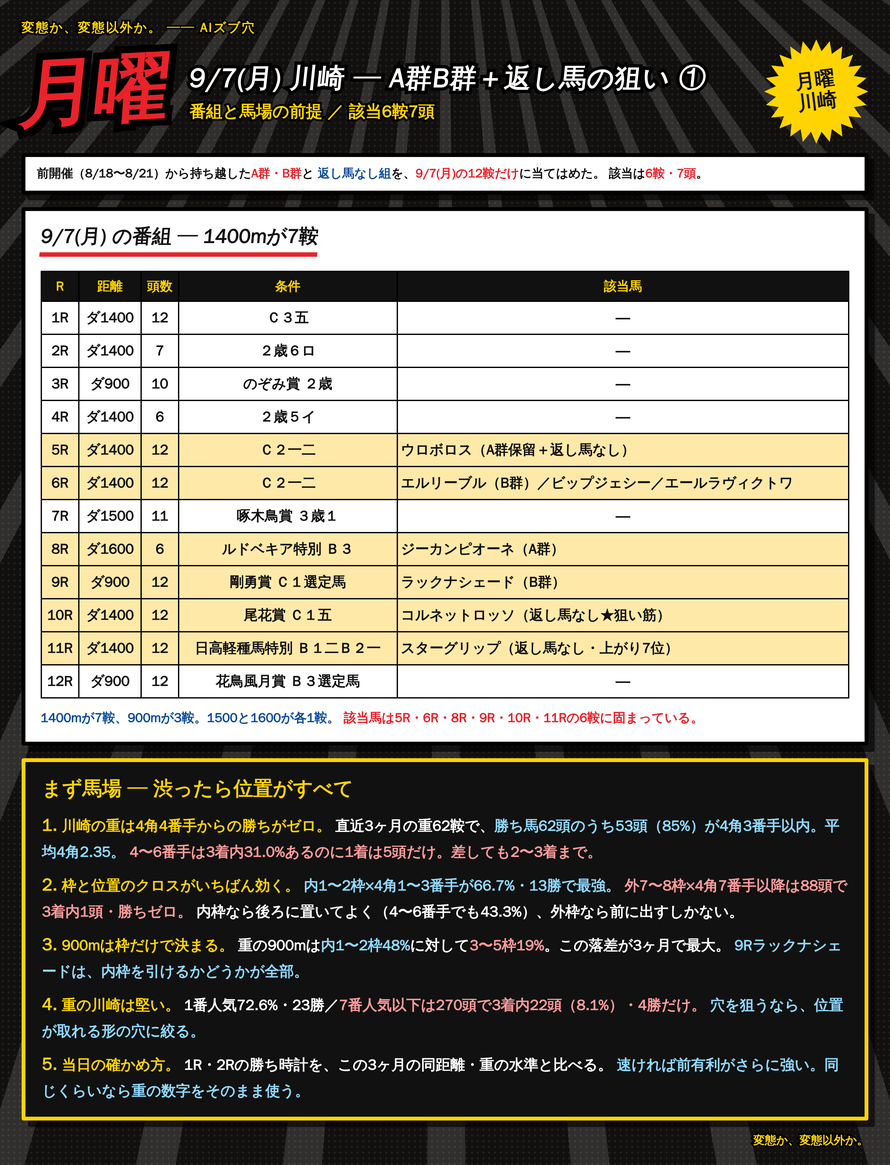
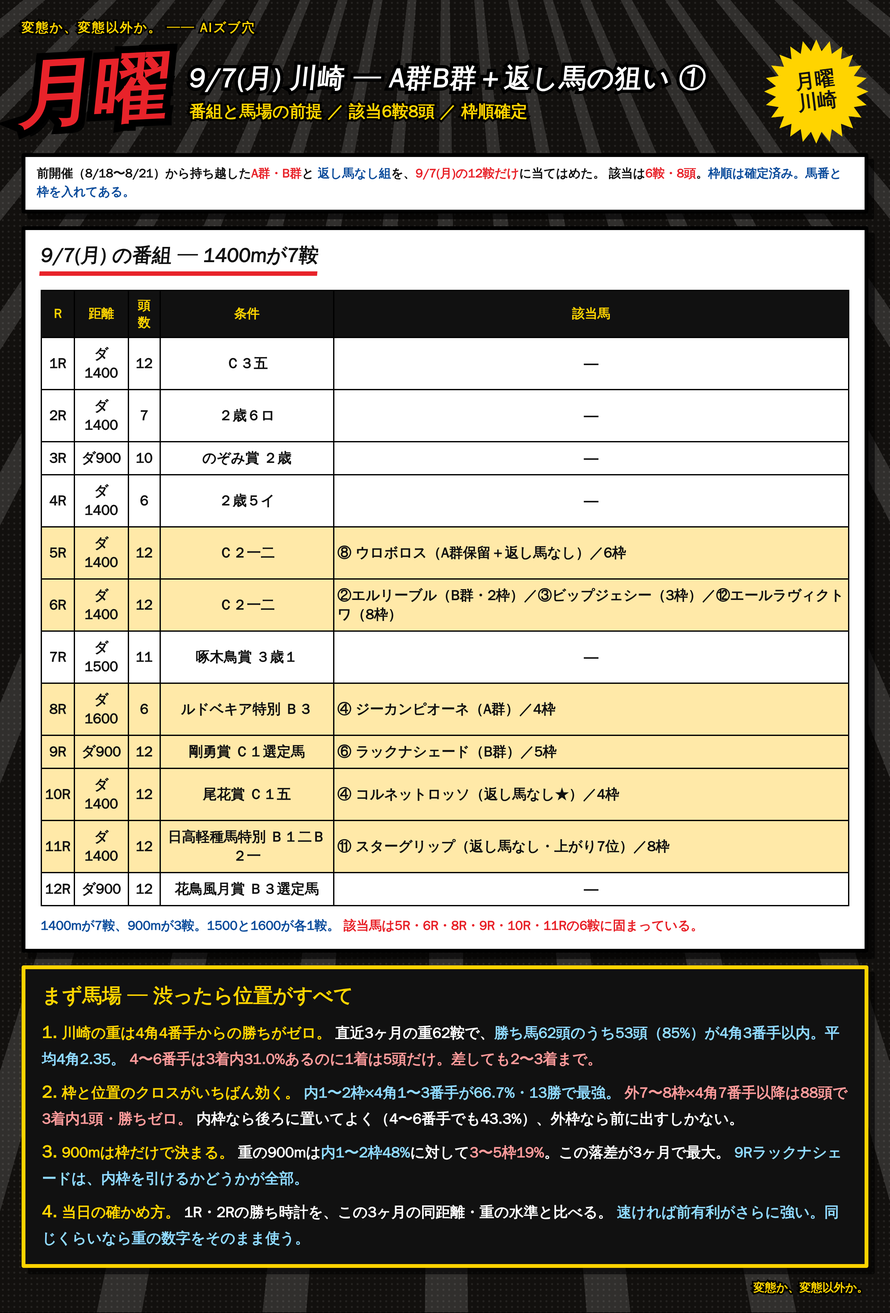
川崎 9/7: 馬番・枠を追加、「重の川崎は堅い」の項を削除
枠順が確定していたため取り直し、該当8頭に馬番と枠を入れた。
枠を入れたことで評価が動いた点を反映：

- 6R ②エルリーブル（2枠）… 重の最強形「内1〜2枠×4角1〜3番手」66.7%・13勝に
  ハナを切る脚質が噛み合う。この日唯一の本線に格上げ
- 9R ⑥ラックナシェード（5枠）… 重の900mは内1〜2枠48%／3〜5枠19%／外6〜8枠29%で
  いちばん悪い帯。位置がすべての馬なので見送り寄りに変更
- 5R ⑧ウロボロス（6枠・6.2%）／6R ⑫エールラヴィクトワ（8枠・22.2%）／
  10R ④コルネットロッソ（4枠・1着ゼロ）は枠が向かず、3着づけまで

馬場の前提から「重の川崎は堅い（人気の項）」を削除し、残りを4項に繰り上げ。

Claude-Session: https://claude.ai/code/session_01RoHscZkr96FNaxQWvUqgEw

diff --git a/notes/live/2026-09-kawasaki/kw_mon_3.html b/notes/live/2026-09-kawasaki/kw_mon_3.html
@@ -99,10 +99,10 @@
 </style></head>
 <body><div class="card"><div class="lines"></div><div class="tone"></div><div class="inner">
 <div class="kicker">変態か、変態以外か。 ── AIズブ穴</div>
-<div class="head"><div class="gekiga">月曜</div><div class="dateblk"><div class="d1">9/7(月) 川崎 ─ A群B群＋返し馬の狙い ③</div><div class="d2">8R・9R・10R・11R ／ 組み方</div></div><div class="burst"><span>8R<br>以降</span></div></div>
+<div class="head"><div class="gekiga">月曜</div><div class="dateblk"><div class="d1">9/7(月) 川崎 ─ A群B群＋返し馬の狙い ③</div><div class="d2">8R ④ ／ 9R ⑥ ／ 10R ④ ／ 11R ⑪ ／ 組み方</div></div><div class="burst"><span>8R<br>以降</span></div></div>
 
 <div class="sec">
- <div class="sh">8R ダ1600 <b>6頭</b> ルドベキア特別 Ｂ３ ─ ジーカンピオーネ（A群）</div>
+ <div class="sh">8R ダ1600 <b>6頭</b> ルドベキア特別 Ｂ３ ─ <span style="color:#e8232a">④</span>ジーカンピオーネ（4枠／A群）</div>
  <table>
   <tr><th>日付</th><th>条件</th><th>着</th><th>上がり</th><th>通過順</th><th>人気</th><th>体重</th></tr>
   <tr class="win"><td>8/20</td><td>川崎1500 良</td><td><b>1着</b><br>単1,870</td><td><b>40.6（1位）</b></td><td>4番手</td><td><b>6人気</b></td><td>410</td></tr>
@@ -115,11 +115,11 @@
  <b class="r">ただし410kg。前開催48鞍で439kg以下は3着内20.6%と、他の体重帯より明確に低い。</b>
  さらに<b>1500→1600の距離延長と、Ｂ３へのクラス上げが同時に来る。</b>
  <b class="r">3/4の不良で7着というのも引っかかる。渋ったら評価を下げる。</b><br>
- <b>救いは6頭立て。頭数が少ないぶん位置は取りやすい。</b></div>
+ <b>救いは6頭立て。頭数が少ないぶん位置は取りやすく、枠の有利不利もほぼ消える。</b></div>
 </div>
 
 <div class="sec">
- <div class="sh">9R ダ900 12頭 剛勇賞 Ｃ１選定馬 ─ ラックナシェード（B群）</div>
+ <div class="sh">9R ダ900 12頭 剛勇賞 Ｃ１選定馬 ─ <span style="color:#e8232a">⑥</span>ラックナシェード（<b style="color:#e8232a">5枠</b>／B群）</div>
  <table>
   <tr><th>日付</th><th>条件</th><th>着</th><th>上がり</th><th>通過順</th><th>人気</th></tr>
   <tr class="win"><td>8/18</td><td>川崎900 稍</td><td><b>1着</b><br><b class="r">単5,550</b></td><td>37.3（2位）</td><td><b>3番手</b></td><td><b>8人気</b></td></tr>
@@ -130,13 +130,16 @@
  </table>
  <div class="note"><b>全部900m。そして8/18を除くと、全部4角5番手以降。</b>
  <b class="r">8/18だけ4角3番手を取れた。それで5,550円。</b>
- <b>上がりは37.0〜38.3で常に組の上位を使っているのに、位置が取れないから届かない。</b><br>
- <b class="r">この馬は位置がすべて。そして重の900mは内1〜2枠48%／3〜5枠19%。</b>
- <b>内枠を引いたら拾う。外なら見送る。鞍上は古岡勇が継続。</b></div>
+ <b>上がりは37.0〜38.3で常に組の上位を使っているのに、位置が取れないから届かない。</b><br><br>
+ <b class="r">枠が出た。⑥＝5枠。ここがいちばん悪い。</b>
+ 重の900mは<b>内1〜2枠が48%</b>なのに対して、<b class="r">3〜5枠は19%。3ヶ月で最大の落差の、悪いほう。</b>
+ （外6〜8枠は29%で、5枠より上）<br>
+ <b class="r">この枠でこの脚質なら、前走の再現は期待しにくい。見送り寄り。</b>
+ <b>鞍上は古岡勇が継続。</b></div>
 </div>
 
 <div class="sec">
- <div class="sh">10R ダ1400 12頭 尾花賞 Ｃ１五 ─ コルネットロッソ（★狙い筋）</div>
+ <div class="sh">10R ダ1400 12頭 尾花賞 Ｃ１五 ─ <span style="color:#e8232a">④</span>コルネットロッソ（4枠／★狙い筋）</div>
  <div class="note">
  <b>8/18 5R 稍1400で2番人気4着。4角9番手から上がり39.6＝11頭中2位。</b>
  <b class="r">「馬券を外して上がり1〜2位」という狙い筋に該当する、この日ただ1頭。</b><br><br>
@@ -144,29 +147,35 @@
  <b class="r">位置も定まらず、4角1番手の日も11番手の日もある。</b>
  位置を取れた2走（4角1番手→2着、4角2番手→3着）は堅実だった。<br><br>
  <b class="r">◎ではなく2〜3着づけ。今回も人気なら妙味は薄い。</b>
- <b>鞍上は新原周が継続。前走と同じ「後ろから終い」の形が出るかを見る。</b></div>
+ <b>鞍上は新原周が継続。前走と同じ「後ろから終い」の形が出るかを見る。</b><br><br>
+ <b class="r">枠は④＝4枠。ここが微妙。</b>重の「3〜4枠 × 4角4〜6番手」は
+ <b>3着内31.4%あるのに1着はゼロ</b>、<b class="r">4角7番手以降まで下げると54頭で3着内2頭（3.7%）。</b>
+ <b>前走のように4角9番手まで下がったら、この枠では何もできない。
+ 5番手までで我慢できるかどうかが分かれ目。</b></div>
 </div>
 
 <div class="sec">
- <div class="sh">11R ダ1400 12頭 日高軽種馬特別 ─ スターグリップ</div>
+ <div class="sh">11R ダ1400 12頭 日高軽種馬特別 ─ <span style="color:#e8232a">⑪</span>スターグリップ（8枠）</div>
  <div class="note">
  <b>8/20 11Rで返し馬をしていないが、上がりは12頭中7位。狙い筋には乗らない。</b><br>
  近6走が<b>3着・3着・4着・3着・4着・6着。常に1〜2番人気で、勝ち星がない。</b>
  位置は取れるのに詰めが甘いタイプ。<b class="r">人気になるので妙味がない。ヒモ止まり。</b>
- <b>本田重 → 笹川翼への乗り替わり。</b></div>
+ <b>本田重 → 笹川翼への乗り替わり。⑪＝8枠で、位置を取りにいくしかない。</b></div>
 </div>
 
 <div class="big">
- <div class="bh">9/7(月) の組み方</div>
- <div class="it"><span class="no">1.</span> <span class="y">勝負は2鞍まで。6Rと9R。</span>
- <span class="c">6Rはエルリーブルが同じ条件・同じ鞍上で戻ってくる鞍で、3頭が同居する。
- 9Rはラックナシェードが内枠を引けば、前走と同じ位置が取れる。</span></div>
- <div class="it"><span class="no">2.</span> <span class="y">◎に置ける馬がいない。</span>
- <span class="r">ウロボロス・エールラヴィクトワ・コルネットロッソはいずれも後ろから終いを使う型。</span>
- <span class="c">川崎の重は4角4番手からの勝ちがゼロなので、この3頭は2〜3着づけで固定する。</span></div>
- <div class="it"><span class="no">3.</span> <span class="y">枠が出るまで決めない。</span>
- <span class="c">9Rラックナシェード（900m・内1〜2枠48%／3〜5枠19%）と
- 8Rジーカンピオーネ（410kg・6頭立て）は、枠と馬場で評価が真逆に振れる。</span></div>
+ <div class="bh">9/7(月) の組み方 ─ 枠を見たあと</div>
+ <div class="it"><span class="no">1.</span> <span class="y">本線は6R ②エルリーブル。ここだけ枠と脚質が噛み合っている。</span>
+ <span class="c">重の川崎でいちばん強い形が「内1〜2枠 × 4角1〜3番手」で66.7%・13勝。</span>
+ <span class="c">この馬は2枠を引いて、しかもハナを切る馬。8/19の7,840円もその形で出した。</span></div>
+ <div class="it"><span class="no">2.</span> <span class="y">9R ⑥ラックナシェードは枠で消える。</span>
+ <span class="r">5枠。重の900mは内1〜2枠48%に対して3〜5枠19%で、いちばん悪い帯に入った。</span>
+ <span class="c">位置がすべての馬なので、前走の再現は期待しにくい。見送り寄りに変える。</span></div>
+ <div class="it"><span class="no">3.</span> <span class="y">後ろから終いを使う3頭は、全部枠が向いていない。</span>
+ <span class="c">5R ⑧ウロボロス（6枠・5〜6枠×7番手以降は6.2%）、
+ 6R ⑫エールラヴィクトワ（8枠・外7〜8枠×4〜6番手は22.2%）、
+ 10R ④コルネットロッソ（4枠・3〜4枠×4〜6番手は1着ゼロ）。</span>
+ <span class="r">3頭ともヒモの3着づけまで。◎には置かない。</span></div>
  <div class="it"><span class="no">4.</span> <span class="y">当日の観察を続ける。</span>
  <span class="c">返し馬をしなかった馬を控えて、その日の4角と上がり順位を確認する。</span>
  <span class="r">上がり1〜2位で馬券を外した馬を、次走の候補に積む。</span>

diff --git a/notes/live/2026-09-kawasaki/kw_mon_2.html b/notes/live/2026-09-kawasaki/kw_mon_2.html
@@ -99,10 +99,10 @@
 </style></head>
 <body><div class="card"><div class="lines"></div><div class="tone"></div><div class="inner">
 <div class="kicker">変態か、変態以外か。 ── AIズブ穴</div>
-<div class="head"><div class="gekiga">月曜</div><div class="dateblk"><div class="d1">9/7(月) 川崎 ─ A群B群＋返し馬の狙い ②</div><div class="d2">5R ウロボロス ／ 6R 3頭同居</div></div><div class="burst"><span>5R<br>6R</span></div></div>
+<div class="head"><div class="gekiga">月曜</div><div class="dateblk"><div class="d1">9/7(月) 川崎 ─ A群B群＋返し馬の狙い ②</div><div class="d2">5R ⑧ウロボロス ／ 6R ②③⑫の3頭同居</div></div><div class="burst"><span>5R<br>6R</span></div></div>
 
 <div class="sec">
- <div class="sh">5R ダ1400 12頭 Ｃ２一二 ─ ウロボロス（A群保留＋返し馬なし）</div>
+ <div class="sh">5R ダ1400 12頭 Ｃ２一二 ─ <span style="color:#e8232a">⑧</span>ウロボロス（<b>6枠</b>／A群保留＋返し馬なし）</div>
  <table>
   <tr><th>日付</th><th>条件</th><th>着</th><th>上がり</th><th>通過順</th><th>人気</th></tr>
   <tr class="win"><td>8/18</td><td>川崎1400 稍</td><td><b>2着</b></td><td><b>39.5（1位）</b></td><td><b>7番手</b></td><td><b>9人気</b></td></tr>
@@ -112,27 +112,32 @@
   <tr><td>5/11</td><td>川崎1400 良</td><td>6着</td><td>39.4</td><td>10-10-10-9</td><td>10人気</td></tr>
  </table>
  <div class="note"><b>5走すべて4角6番手以降。上がりは39.4〜40.3で組の上位を使い続けている。</b>
- 人気は6・2・10・8番人気で、<b class="r">ズブ穴の型そのもの。渋った1500mで3着があるので馬場は問わない。</b><br>
- <b class="r">ただし川崎の重は4角4番手からの勝ちがゼロ。この馬は◎にしない。2〜3着づけ。</b>
- <b>鞍上は古岡勇が継続。</b></div>
+ 人気は6・2・10・8番人気で、<b class="r">ズブ穴の型そのもの。渋った1500mで3着があるので馬場は問わない。</b><br><br>
+ <b class="r">問題は枠。⑧は6枠で、重の「5〜6枠 × 4角7番手以降」は80頭で3着内5頭（6.2%）しかない。</b>
+ <b>この馬は必ず後ろから行く。枠と脚質がいちばん噛み合わない組み合わせ。</b><br>
+ <b class="r">評価を下げる。買うならヒモの3着づけまで。</b><b>鞍上は古岡勇が継続。</b></div>
 </div>
 
 <div class="sec">
- <div class="sh">6R ダ1400 12頭 Ｃ２一二 ─ 3頭が同居。ここが絞りどころ</div>
+ <div class="sh">6R ダ1400 12頭 Ｃ２一二 ─ 3頭が同居。<span style="color:#e8232a">枠で答えが出た</span></div>
  <table>
-  <tr><th>馬</th><th>鞍上</th><th>前開催</th><th>中身</th><th>扱い</th></tr>
-  <tr class="hi"><td class="l"><b>エルリーブル</b><br>セ5・474kg</td><td>藤江渉<br><b>継続</b></td><td class="l">8/19 <b>6R 良1400</b><br><b class="r">9人気1着 単7,840</b></td><td class="l"><b>4角1番手</b>・上40.3（5位）<br>近5走はすべて<b>900m</b></td><td><b>ハナ</b><br>次第</td></tr>
-  <tr><td class="l"><b>ビップジェシー</b><br>牝4・439kg</td><td>町田直<br><b>継続</b></td><td class="l">8/18 7R 稍1400<br><b>1人気1着</b> 単300</td><td class="l">4角3番手・<b>上39.1（1位）</b><br>川崎1400で上がり39.1〜39.6</td><td>△</td></tr>
-  <tr><td class="l"><b>エールラヴィクトワ</b><br>牝4・442kg</td><td class="l"><b class="r">矢野貴→<br>古岡勇</b></td><td class="l">8/18 9R 稍1500<br>1人気3着</td><td class="l">4角3番手・<b>上39.6（2位）</b><br>近6走 2・3・4・4・2・3着で<b class="r">勝ち星ゼロ</b></td><td><b>2〜3着</b><br>づけ</td></tr>
+  <tr><th>馬番<br>枠</th><th>馬</th><th>鞍上</th><th>前開催</th><th>中身</th><th>扱い</th></tr>
+  <tr class="win"><td><b class="r" style="font-size:30px">②</b><br><b>2枠</b></td><td class="l"><b>エルリーブル</b><br>セ5・474kg</td><td>藤江渉<br><b>継続</b></td><td class="l">8/19 <b>6R 良1400</b><br><b class="r">9人気1着 単7,840</b></td><td class="l"><b>4角1番手</b>・上40.3（5位）<br>近5走はすべて<b>900m</b></td><td><b class="r">本線</b></td></tr>
+  <tr><td><b class="r" style="font-size:30px">③</b><br>3枠</td><td class="l"><b>ビップジェシー</b><br>牝4・439kg</td><td>町田直<br><b>継続</b></td><td class="l">8/18 7R 稍1400<br><b>1人気1着</b> 単300</td><td class="l">4角3番手・<b>上39.1（1位）</b><br>川崎1400で上がり39.1〜39.6</td><td>△</td></tr>
+  <tr class="bad"><td><b class="r" style="font-size:30px">⑫</b><br><b>8枠</b></td><td class="l"><b>エールラヴィクトワ</b><br>牝4・442kg</td><td class="l"><b class="r">矢野貴→<br>古岡勇</b></td><td class="l">8/18 9R 稍1500<br>1人気3着</td><td class="l">4角3番手・<b>上39.6（2位）</b><br>近6走 2・3・4・4・2・3着で<b class="r">勝ち星ゼロ</b></td><td><b class="r">枠が<br>致命的</b></td></tr>
  </table>
  <div class="note">
- <b class="r">エルリーブルは同じ6R・同じ1400m・同じ鞍上での再戦。</b>
- 近5走はすべて900mで、8/19の1400が久々の距離延長。そこで<b>ハナを切って7,840円。</b>
- <b>終いは40.3で5位でしかない。位置だけで残った馬なので、同じ位置が取れなければ何も残らない。</b>
- <b class="r">前走の激走で人気を上げているなら妙味は消える。</b><br><br>
- <b>エールラヴィクトワは4/7に川崎1400の重で2着（4角5番手・上39.7）。渋れば動く。</b>
- ただし<b class="r">近6走で勝ち星がなく、2着・3着で止まる馬。ヒモから。</b>
- <b>矢野貴 → 古岡勇の乗り替わりも押さえておく。</b></div>
+ <b class="r">②エルリーブルは同じ6R・同じ1400m・同じ鞍上での再戦。そのうえ2枠。</b>
+ 重の川崎でいちばん強い形は<b class="r">「内1〜2枠 × 4角1〜3番手」で66.7%・13勝。</b>
+ この馬は<b>ハナを切る馬で、8/19もそれで7,840円を出した。枠と脚質が完全に噛み合う。</b><br>
+ <b>終いは40.3で5位でしかない。位置だけで残った馬なので、ハナを取れるかどうかがすべて。</b>
+ <b class="r">それでも今日は、取りにいける枠を引いた。</b><br><br>
+ <b>③ビップジェシーは3枠で4角3番手の馬。「3〜4枠 × 4角1〜3番手」も68.2%と高い。</b>
+ <b class="r">ただし前走1番人気1着で、今回も人気を背負う。</b><br><br>
+ <b class="r">⑫エールラヴィクトワは8枠。ここが致命的。</b>
+ この馬は近6走とも4角4〜6番手で、重の<b>「外7〜8枠 × 4角4〜6番手」は22.2%まで落ちる</b>
+ （内1〜2枠なら43.3%）。<b>もともと近6走で勝ち星がなく2〜3着で止まる馬。今回は評価を下げる。</b>
+ <b>矢野貴 → 古岡勇の乗り替わり。</b></div>
 </div>
 
 <div class="sig">変態か、変態以外か。</div>

diff --git a/notes/live/2026-09-kawasaki/kw_mon_1.html b/notes/live/2026-09-kawasaki/kw_mon_1.html
@@ -99,11 +99,11 @@
 </style></head>
 <body><div class="card"><div class="lines"></div><div class="tone"></div><div class="inner">
 <div class="kicker">変態か、変態以外か。 ── AIズブ穴</div>
-<div class="head"><div class="gekiga">月曜</div><div class="dateblk"><div class="d1">9/7(月) 川崎 ─ A群B群＋返し馬の狙い ①</div><div class="d2">番組と馬場の前提 ／ 該当6鞍7頭</div></div><div class="burst"><span>月曜<br>川崎</span></div></div>
+<div class="head"><div class="gekiga">月曜</div><div class="dateblk"><div class="d1">9/7(月) 川崎 ─ A群B群＋返し馬の狙い ①</div><div class="d2">番組と馬場の前提 ／ 該当6鞍8頭 ／ 枠順確定</div></div><div class="burst"><span>月曜<br>川崎</span></div></div>
 
 <div class="lead">前開催（8/18〜8/21）から持ち越した<span class="r">A群・B群</span>と
 <span class="b">返し馬なし組</span>を、<span class="r">9/7(月)の12鞍だけ</span>に当てはめた。
-該当は<span class="r">6鞍・7頭</span>。</div>
+該当は<span class="r">6鞍・8頭</span>。<span class="b">枠順は確定済み。馬番と枠を入れてある。</span></div>
 
 <div class="sec">
  <div class="sh">9/7(月) の番組 ─ 1400mが7鞍</div>
@@ -113,13 +113,13 @@
   <tr><td>2R</td><td>ダ1400</td><td>7</td><td>２歳６ロ</td><td>―</td></tr>
   <tr><td>3R</td><td>ダ900</td><td>10</td><td>のぞみ賞 ２歳</td><td>―</td></tr>
   <tr><td>4R</td><td>ダ1400</td><td>6</td><td>２歳５イ</td><td>―</td></tr>
-  <tr class="hi"><td><b>5R</b></td><td>ダ1400</td><td>12</td><td>Ｃ２一二</td><td class="l"><b>ウロボロス</b>（A群保留＋返し馬なし）</td></tr>
-  <tr class="hi"><td><b>6R</b></td><td>ダ1400</td><td>12</td><td>Ｃ２一二</td><td class="l"><b>エルリーブル</b>（B群）／<b>ビップジェシー</b>／<b>エールラヴィクトワ</b></td></tr>
+  <tr class="hi"><td><b>5R</b></td><td>ダ1400</td><td>12</td><td>Ｃ２一二</td><td class="l"><b class="r">⑧</b> <b>ウロボロス</b>（A群保留＋返し馬なし）／<b>6枠</b></td></tr>
+  <tr class="hi"><td><b>6R</b></td><td>ダ1400</td><td>12</td><td>Ｃ２一二</td><td class="l"><b class="r">②</b><b>エルリーブル</b>（B群・<b>2枠</b>）／<b class="r">③</b><b>ビップジェシー</b>（3枠）／<b class="r">⑫</b><b>エールラヴィクトワ</b>（8枠）</td></tr>
   <tr><td>7R</td><td>ダ1500</td><td>11</td><td>啄木鳥賞 ３歳１</td><td>―</td></tr>
-  <tr class="hi"><td><b>8R</b></td><td>ダ1600</td><td><b>6</b></td><td>ルドベキア特別 Ｂ３</td><td class="l"><b>ジーカンピオーネ</b>（A群）</td></tr>
-  <tr class="hi"><td><b>9R</b></td><td>ダ900</td><td>12</td><td>剛勇賞 Ｃ１選定馬</td><td class="l"><b>ラックナシェード</b>（B群）</td></tr>
-  <tr class="hi"><td><b>10R</b></td><td>ダ1400</td><td>12</td><td>尾花賞 Ｃ１五</td><td class="l"><b class="r">コルネットロッソ</b>（返し馬なし★狙い筋）</td></tr>
-  <tr class="hi"><td><b>11R</b></td><td>ダ1400</td><td>12</td><td>日高軽種馬特別 Ｂ１二Ｂ２一</td><td class="l">スターグリップ（返し馬なし・上がり7位）</td></tr>
+  <tr class="hi"><td><b>8R</b></td><td>ダ1600</td><td><b>6</b></td><td>ルドベキア特別 Ｂ３</td><td class="l"><b class="r">④</b> <b>ジーカンピオーネ</b>（A群）／4枠</td></tr>
+  <tr class="hi"><td><b>9R</b></td><td>ダ900</td><td>12</td><td>剛勇賞 Ｃ１選定馬</td><td class="l"><b class="r">⑥</b> <b>ラックナシェード</b>（B群）／<b class="r">5枠</b></td></tr>
+  <tr class="hi"><td><b>10R</b></td><td>ダ1400</td><td>12</td><td>尾花賞 Ｃ１五</td><td class="l"><b class="r">④</b> <b class="r">コルネットロッソ</b>（返し馬なし★）／4枠</td></tr>
+  <tr class="hi"><td><b>11R</b></td><td>ダ1400</td><td>12</td><td>日高軽種馬特別 Ｂ１二Ｂ２一</td><td class="l"><b class="r">⑪</b> スターグリップ（返し馬なし・上がり7位）／8枠</td></tr>
   <tr><td>12R</td><td>ダ900</td><td>12</td><td>花鳥風月賞 Ｂ３選定馬</td><td>―</td></tr>
  </table>
  <div class="note"><b>1400mが7鞍、900mが3鞍。1500と1600が各1鞍。</b>
@@ -138,10 +138,7 @@
  <div class="it"><span class="no">3.</span> <span class="y">900mは枠だけで決まる。</span>
  重の900mは<span class="c">内1〜2枠48%</span>に対して<span class="r">3〜5枠19%</span>。この落差が3ヶ月で最大。
  <span class="c">9Rラックナシェードは、内枠を引けるかどうかが全部。</span></div>
- <div class="it"><span class="no">4.</span> <span class="y">重の川崎は堅い。</span>
- 1番人気72.6%・23勝／<span class="r">7番人気以下は270頭で3着内22頭（8.1%）・4勝だけ。</span>
- <span class="c">穴を狙うなら、位置が取れる形の穴に絞る。</span></div>
- <div class="it"><span class="no">5.</span> <span class="y">当日の確かめ方。</span>
+ <div class="it"><span class="no">4.</span> <span class="y">当日の確かめ方。</span>
  1R・2Rの勝ち時計を、この3ヶ月の同距離・重の水準と比べる。
  <span class="c">速ければ前有利がさらに強い。同じくらいなら重の数字をそのまま使う。</span></div>
 </div>

diff --git a/notes/live/2026-09-kawasaki/README.md b/notes/live/2026-09-kawasaki/README.md
@@ -1428,18 +1428,20 @@
 画像: `kw_mon_1.png`（番組と馬場）／`kw_mon_2.png`（5R・6R）／`kw_mon_3.png`（8R以降と組み方）
 生成: `scratchpad/mkmon.py`　照合: `scratchpad/kwmon.py`
 
-**A群・B群・返し馬なし組を9/7の12鞍に当てはめた。該当は6鞍・7頭。**
+**A群・B群・返し馬なし組を9/7の12鞍に当てはめた。該当は6鞍・8頭。枠順確定済み。**
 
-| R | 条件 | 馬 | 鞍上 | 区分 |
-|---|---|---|---|---|
-| **5R** | ダ1400 12頭 Ｃ２一二 | ウロボロス | 古岡勇 継続 | **A群保留＋返し馬なし** |
-| **6R** | ダ1400 12頭 Ｃ２一二 | エルリーブル | 藤江渉 継続 | **B群**（8/19 6R 9人気1着・単7,840） |
-| **6R** | 〃 | ビップジェシー | 町田直 継続 | 返し馬なし（8/18 1人気1着） |
-| **6R** | 〃 | エールラヴィクトワ | **矢野貴→古岡勇** | 返し馬なし（8/18 1人気3着・上2位） |
-| **8R** | ダ1600 **6頭** ルドベキア特別Ｂ３ | ジーカンピオーネ | 西啓太 | **A群**（8/20 6人気1着・単1,870・上1位） |
-| **9R** | ダ900 12頭 剛勇賞Ｃ１ | ラックナシェード | 古岡勇 継続 | **B群**（8/18 8人気1着・**単5,550**） |
-| **10R** | ダ1400 12頭 尾花賞Ｃ１五 | コルネットロッソ | 新原周 継続 | **返し馬なし★（狙い筋）** |
-| 11R | ダ1400 12頭 日高軽種馬特別 | スターグリップ | **本田重→笹川翼** | 返し馬なし（上7位・筋外） |
+| R | 条件 | 馬番/枠 | 馬 | 鞍上 | 区分 |
+|---|---|---|---|---|---|
+| **5R** | ダ1400 12頭 Ｃ２一二 | **⑧ 6枠** | ウロボロス | 古岡勇 継続 | **A群保留＋返し馬なし** |
+| **6R** | ダ1400 12頭 Ｃ２一二 | **② 2枠** | **エルリーブル** | 藤江渉 継続 | **B群**（8/19 6R 9人気1着・単7,840） |
+| **6R** | 〃 | **③ 3枠** | ビップジェシー | 町田直 継続 | 返し馬なし（8/18 1人気1着） |
+| **6R** | 〃 | **⑫ 8枠** | エールラヴィクトワ | **矢野貴→古岡勇** | 返し馬なし（8/18 1人気3着・上2位） |
+| **8R** | ダ1600 **6頭** ルドベキア特別Ｂ３ | **④ 4枠** | ジーカンピオーネ | 西啓太 | **A群**（8/20 6人気1着・単1,870・上1位） |
+| **9R** | ダ900 12頭 剛勇賞Ｃ１ | **⑥ 5枠** | ラックナシェード | 古岡勇 継続 | **B群**（8/18 8人気1着・**単5,550**） |
+| **10R** | ダ1400 12頭 尾花賞Ｃ１五 | **④ 4枠** | コルネットロッソ | 新原周 継続 | **返し馬なし★（狙い筋）** |
+| 11R | ダ1400 12頭 日高軽種馬特別 | **⑪ 8枠** | スターグリップ | **本田重→笹川翼** | 返し馬なし（上7位・筋外） |
+
+※12頭立ての枠割は 1〜4枠が各1頭、5枠=⑤⑥、6枠=⑦⑧、7枠=⑨⑩、8枠=⑪⑫。
 
 **1400mが7鞍、900mが3鞍、1500と1600が各1鞍。**
 
@@ -1447,30 +1449,38 @@
 
 - **川崎の重は4角4番手からの勝ちがゼロ。**勝ち馬62頭中53頭（85%）が4角3番手以内
 - **内1〜2枠×4角1〜3番手 66.7%・13勝が最強／外7〜8枠×4角7番手以降 88頭で3着内1頭・勝ちゼロ**
-- **重の900mは内1〜2枠48%／3〜5枠19%。**3ヶ月で最大の落差
-- 1番人気72.6%・23勝／7番人気以下 8.1%・4勝。**重の川崎は堅い**
+- **重の900mは内1〜2枠48%／3〜5枠19%／外6〜8枠29%。**3ヶ月で最大の落差
 - 当日は1R・2Rの勝ち時計を3ヶ月の同距離・重の水準と比べる
 
 ### レース別
 
-- **5R ウロボロス** … 5走すべて4角6番手以降、上がり39.4〜40.3。渋った1500で3着あり。
-  **重は4角4番手からの勝ちゼロなので◎にしない。2〜3着づけ**
-- **6R** … **エルリーブルが同じ6R・同じ1400m・同じ鞍上で再戦。**近5走はすべて900mで、
-  8/19の1400が久々の延長。**ハナを切って7,840円だが終いは40.3で5位。位置だけで残った馬。**
-  同じ位置が取れなければ何も残らない。**人気を上げているなら妙味は消える**
-- **8R ジーカンピオーネ** … 8/20が初勝利。**ただし410kg（439kg以下は3着内20.6%）で、
-  1500→1600とＢ３へのクラス上げが同時。3/4の不良で7着も引っかかる。救いは6頭立て**
-- **9R ラックナシェード** … 全部900m、8/18を除くと全部4角5番手以降。
-  **8/18だけ4角3番手を取れて5,550円。位置がすべて。内枠を引いたら拾う、外なら見送る**
-- **10R コルネットロッソ** … **狙い筋★はこの日ただ1頭。**ただし常に人気で勝ち星がなく、
-  位置も定まらない。**◎ではなく2〜3着づけ**
-- **11R スターグリップ** … 上がり7位で筋外。近6走が3・3・4・3・4・6着で常に1〜2番人気。**ヒモ止まり**
+- **5R ⑧ウロボロス（6枠）** … 5走すべて4角6番手以降、上がり39.4〜40.3。渋った1500で3着あり。
+  **ただし6枠。重の「5〜6枠×4角7番手以降」は80頭で3着内5頭（6.2%）。
+  枠と脚質がいちばん噛み合わない組み合わせで、評価を下げる。3着づけまで**
+- **6R ②エルリーブル（2枠）** … **同じ6R・同じ1400m・同じ鞍上で再戦。そのうえ2枠。**
+  重でいちばん強い形が**「内1〜2枠×4角1〜3番手」66.7%・13勝**で、この馬はハナを切る馬。
+  8/19の7,840円もその形。**終いは40.3で5位だが、位置だけで残る馬に取りにいける枠が入った**
+- **6R ③ビップジェシー（3枠）** … 4角3番手の馬で「3〜4枠×1〜3番手」68.2%。
+  **ただし前走1番人気1着で今回も人気を背負う。△**
+- **6R ⑫エールラヴィクトワ（8枠）** … **ここが致命的。**近6走とも4角4〜6番手で、
+  重の「外7〜8枠×4〜6番手」は22.2%（内1〜2枠なら43.3%）。**評価を下げる**
+- **8R ④ジーカンピオーネ（4枠）** … 8/20が初勝利。**ただし410kg（439kg以下は3着内20.6%）で、
+  1500→1600とＢ３へのクラス上げが同時。3/4の不良で7着も引っかかる。
+  救いは6頭立てで、枠の有利不利がほぼ消えること**
+- **9R ⑥ラックナシェード（5枠）** … 全部900m、8/18を除くと全部4角5番手以降。
+  **8/18だけ4角3番手を取れて5,550円。位置がすべての馬。**
+  **枠は5枠。重の900mは内1〜2枠48%／3〜5枠19%／外6〜8枠29%で、いちばん悪い帯。見送り寄り**
+- **10R ④コルネットロッソ（4枠）** … **狙い筋★はこの日ただ1頭。**ただし常に人気で勝ち星がなく、
+  位置も定まらない。**4枠は「3〜4枠×4〜6番手」で3着内31.4%あるのに1着ゼロ、
+  7番手以降なら54頭で3着内2頭（3.7%）。前走のように4角9番手まで下げたら何もできない**
+- **11R ⑪スターグリップ（8枠）** … 上がり7位で筋外。近6走が3・3・4・3・4・6着で常に1〜2番人気。**ヒモ止まり**
 
-### 組み方
+### 組み方（枠を見たあと）
 
-1. **勝負は2鞍まで。6Rと9R**
-2. **◎に置ける馬がいない。**ウロボロス・エールラヴィクトワ・コルネットロッソは全部
-   後ろから終いを使う型で、川崎の重は4角4番手からの勝ちがゼロ。**3頭とも2〜3着づけで固定**
-3. **枠が出るまで決めない。**9R（900m・枠の落差が最大）と8R（410kg・6頭立て）は
-   枠と馬場で評価が真逆に振れる
+1. **本線は6R ②エルリーブル。**この日で唯一、枠と脚質が噛み合っている
+2. **9R ⑥ラックナシェードは枠で消える。**5枠は重の900mでいちばん悪い帯（19%）。
+   位置がすべての馬なので前走の再現は期待しにくい。**見送り寄りに変更**
+3. **後ろから終いを使う3頭は全部枠が向いていない。**
+   ⑧ウロボロス（6枠・6.2%）／⑫エールラヴィクトワ（8枠・22.2%）／④コルネットロッソ（4枠・1着ゼロ）。
+   **3頭ともヒモの3着づけまで。◎には置かない**
 4. **当日も返し馬をしなかった馬を控える。**とくに矢野貴の騎乗馬は前開催で4頭とも上がり2位
